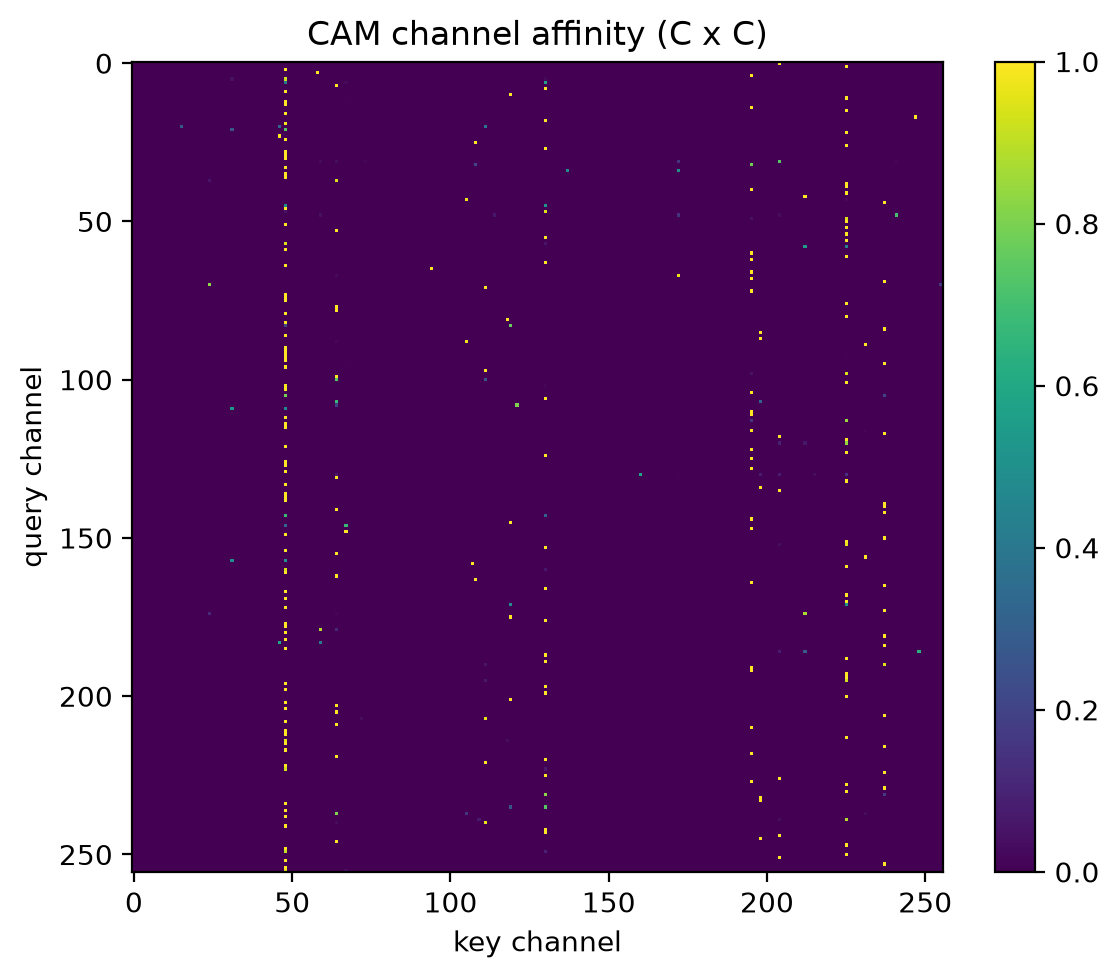
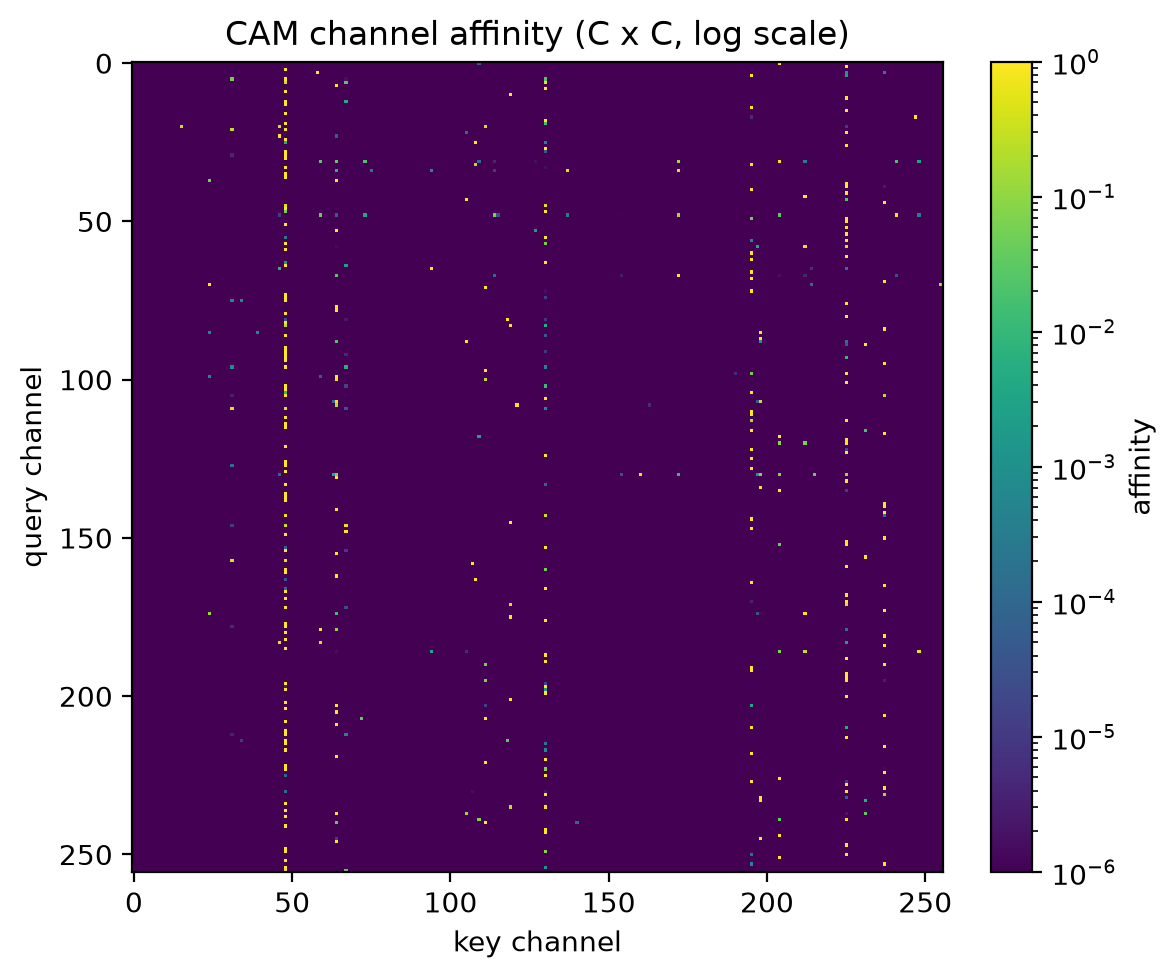
feat: plot CAM channel affinity on a log color scale
The softmax over 256 channels is highly peaked (rows are close to
one-hot), so a linear color scale renders the matrix almost black.
LogNorm makes the 1e-6..1e-2 weak affinities visible.

diff --git a/scripts/visualize.py b/scripts/visualize.py
@@ -123,6 +123,7 @@ def main() -> None:
 
         matplotlib.use("Agg")
         import matplotlib.pyplot as plt
+        from matplotlib.colors import LogNorm
     except ImportError:
         raise SystemExit("需要 matplotlib：pip install matplotlib")
 
@@ -203,12 +204,16 @@ def main() -> None:
             attn = out.attn.get("cam")
             if attn is not None:
                 matrix = attn[0].cpu().numpy()
+                # softmax 在 256 个通道上很尖锐（多数行只有一个接近 1 的峰），
+                # 线性色标下整张图几乎全暗；用对数色标把 1e-6~1e-2 的弱亲和也显示出来。
+                shown = np.clip(matrix, 1e-6, 1.0)
                 fig, ax = plt.subplots(figsize=(6, 5))
-                im = ax.imshow(matrix, cmap="viridis")
-                ax.set_title("CAM channel affinity (C x C)")
+                im = ax.imshow(shown, cmap="viridis", norm=LogNorm(vmin=1e-6, vmax=1.0))
+                ax.set_title("CAM channel affinity (C x C, log scale)")
                 ax.set_xlabel("key channel")
                 ax.set_ylabel("query channel")
-                fig.colorbar(im, ax=ax, fraction=0.046)
+                cbar = fig.colorbar(im, ax=ax, fraction=0.046)
+                cbar.set_label("affinity")
                 fig.tight_layout()
                 path = out_dir / f"cam_{image_id}.png"
                 fig.savefig(path, dpi=200, bbox_inches="tight")
